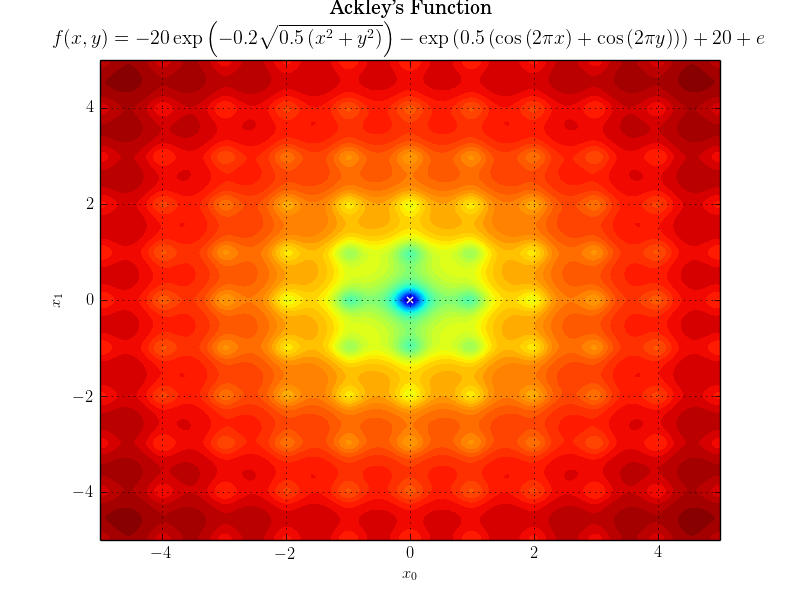
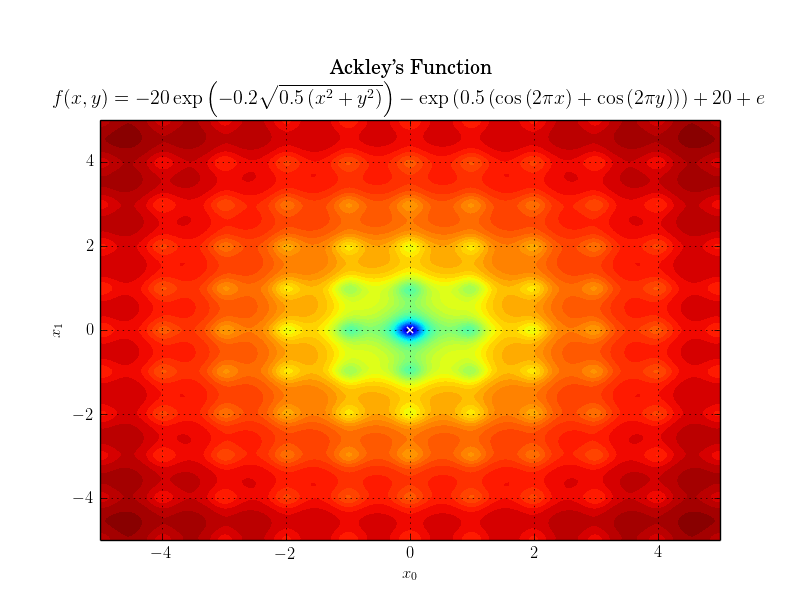
Fixed Link

diff --git a/examples/functions2d/minima.py b/examples/functions2d/minima.py
@@ -1,7 +1,9 @@
 from examples.functions2d.utils import function_example
 from functions2d import *
 
-minima = [CrossInTray,
+minima = [Ackley,
+          Bukin,
+          CrossInTray,
           DropWave,
           Eggholder,
           Griewank,
@@ -13,7 +15,9 @@ minima = [CrossInTray,
           Schwefel,
           Shubert]
 
-name = ["cross_in_tray",
+name = ["ackley",
+        "bukin",
+        "cross_in_tray",
         "drop_wave",
         "eggholder",
         "griewank",

diff --git a/README.md b/README.md
@@ -28,7 +28,7 @@ Requires Python 3 and depends on Numpy and MatPlotLib.
 
 **Many Local Minima**
 
-  1. ![Ackley Function](http://github.com/lukemarris/ctf/examples/functions2d/images/ackley.png)
+  1. ![Ackley Function](/examples/functions2d/images/ackley.png)
   1. Bukin Function No. 6
   1. Cross-in-Tray Function
   1. Drop-Wave Function
